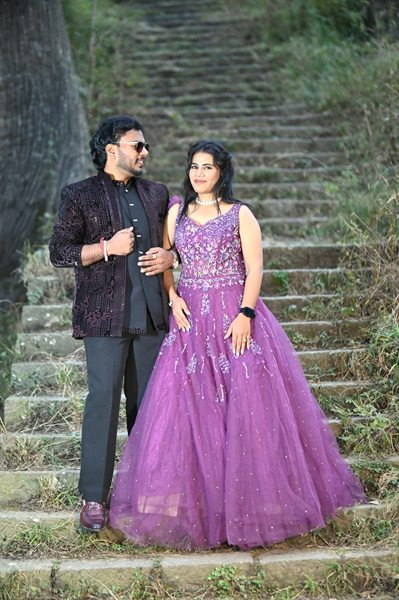
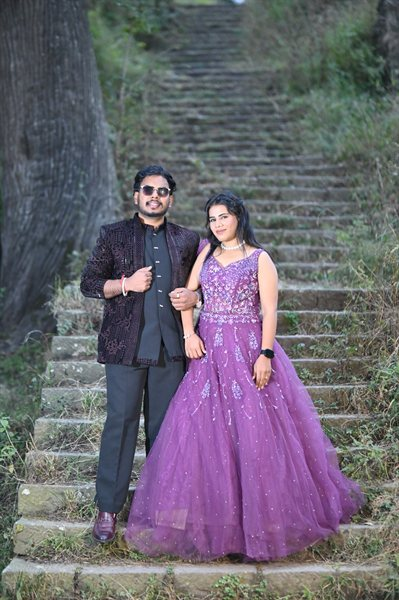
Update royal forest walk photo: restore unedited original camera shot and cache-busting

diff --git a/index.html b/index.html
@@ -2808,7 +2808,7 @@
     <div class="section-container">
       <div class="blessing-card reveal-on-scroll">
         <div class="blessing-seal-wrap">
-          <img src="assets/photos/gallery-10-royalsteps-thumb.jpg" alt="Komal and Rahul Royal Walk" class="blessing-seal-img" width="110" height="110" loading="eager" decoding="async">
+          <img src="assets/photos/gallery-10-royalsteps-thumb.jpg?v=original" alt="Komal and Rahul Royal Walk" class="blessing-seal-img" width="110" height="110" loading="eager" decoding="async">
         </div>
         <div class="section-pretitle" id="blessings-pretitle">The Sacred Union</div>
         <div class="crest-divider">
@@ -3072,7 +3072,7 @@
         <!-- 10. The Royal Forest Walk -->
         <div class="gallery-card reveal-on-scroll" data-category="royal" onclick="openLightbox(9)">
           <div class="gallery-img-wrap">
-            <img src="assets/photos/gallery-10-royalsteps-thumb.jpg" alt="The Sacred Walk" width="600" height="400" loading="lazy" decoding="async">
+            <img src="assets/photos/gallery-10-royalsteps-thumb.jpg?v=original" alt="The Sacred Walk" width="600" height="400" loading="lazy" decoding="async">
             <div class="gallery-overlay">
               <span class="gallery-zoom-icon"><svg width="22" height="22" viewBox="0 0 24 24" fill="none" stroke="currentColor" stroke-width="1.8" stroke-linecap="round" stroke-linejoin="round"><circle cx="11" cy="11" r="8"></circle><line x1="21" y1="21" x2="16.65" y2="16.65"></line><line x1="11" y1="8" x2="11" y2="14"></line><line x1="8" y1="11" x2="14" y2="11"></line></svg></span>
               <h4 class="gallery-item-title">The Sacred Walk</h4>
@@ -3726,7 +3726,7 @@
       { src: 'assets/photos/gallery-7-waterside.jpg', caption: 'Reflections in the Springs • Deep Still Waters', category: 'waterfall' },
       { src: 'assets/photos/gallery-8-riverbank.jpg', caption: 'Riverbank Reflections • Back to Back with Red Roses', category: 'waterfall' },
       { src: 'assets/photos/gallery-9-fairytale.jpg', caption: 'A Twilight Fairy Tale • Rose Petals at Dusk', category: 'royal' },
-      { src: 'assets/photos/gallery-10-royalsteps.jpg', caption: 'The Sacred Walk • Stone Steps in the Forest', category: 'royal' },
+      { src: 'assets/photos/gallery-10-royalsteps.jpg?v=original', caption: 'The Sacred Walk • Stone Steps in the Forest', category: 'royal' },
       { src: 'assets/photos/gallery-11-nightguitar.jpg', caption: 'Streetlight Melody • Warmth in the Night Glow', category: 'night' },
       { src: 'assets/photos/gallery-12-royalelegance.jpg?v=original', caption: 'Royal Grace & Splendor • Arm in Arm, Heart to Heart', category: 'royal' }
     ];
